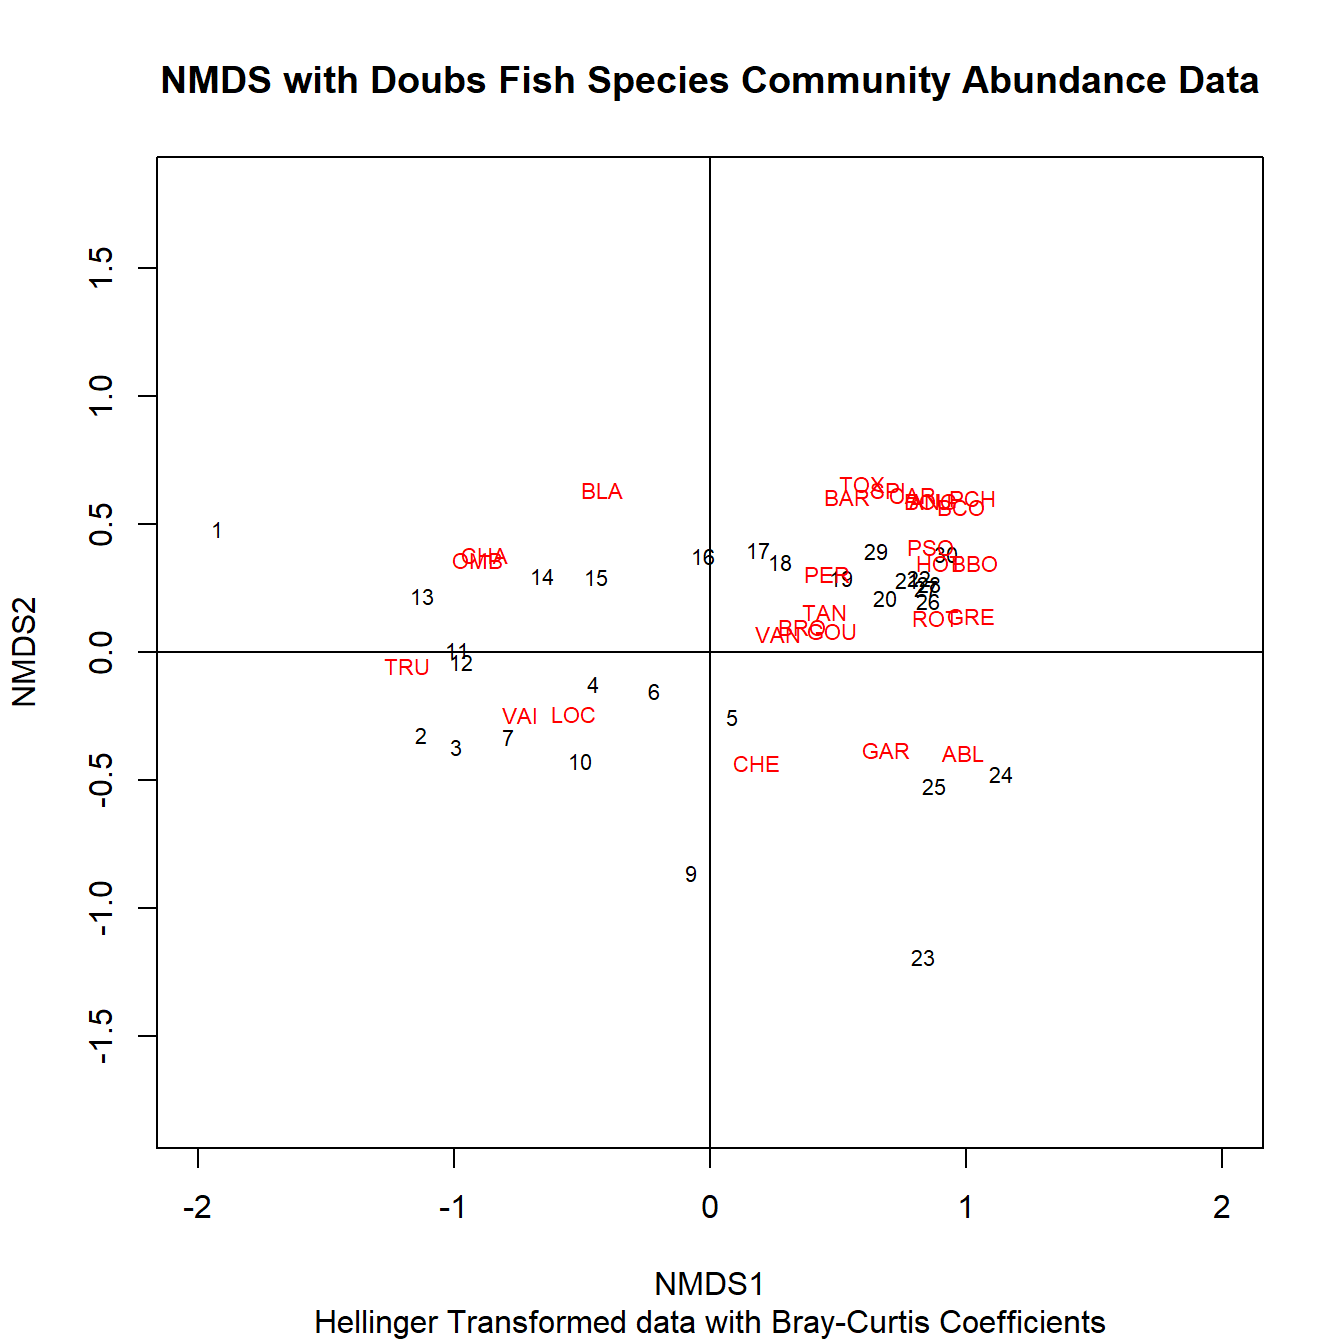
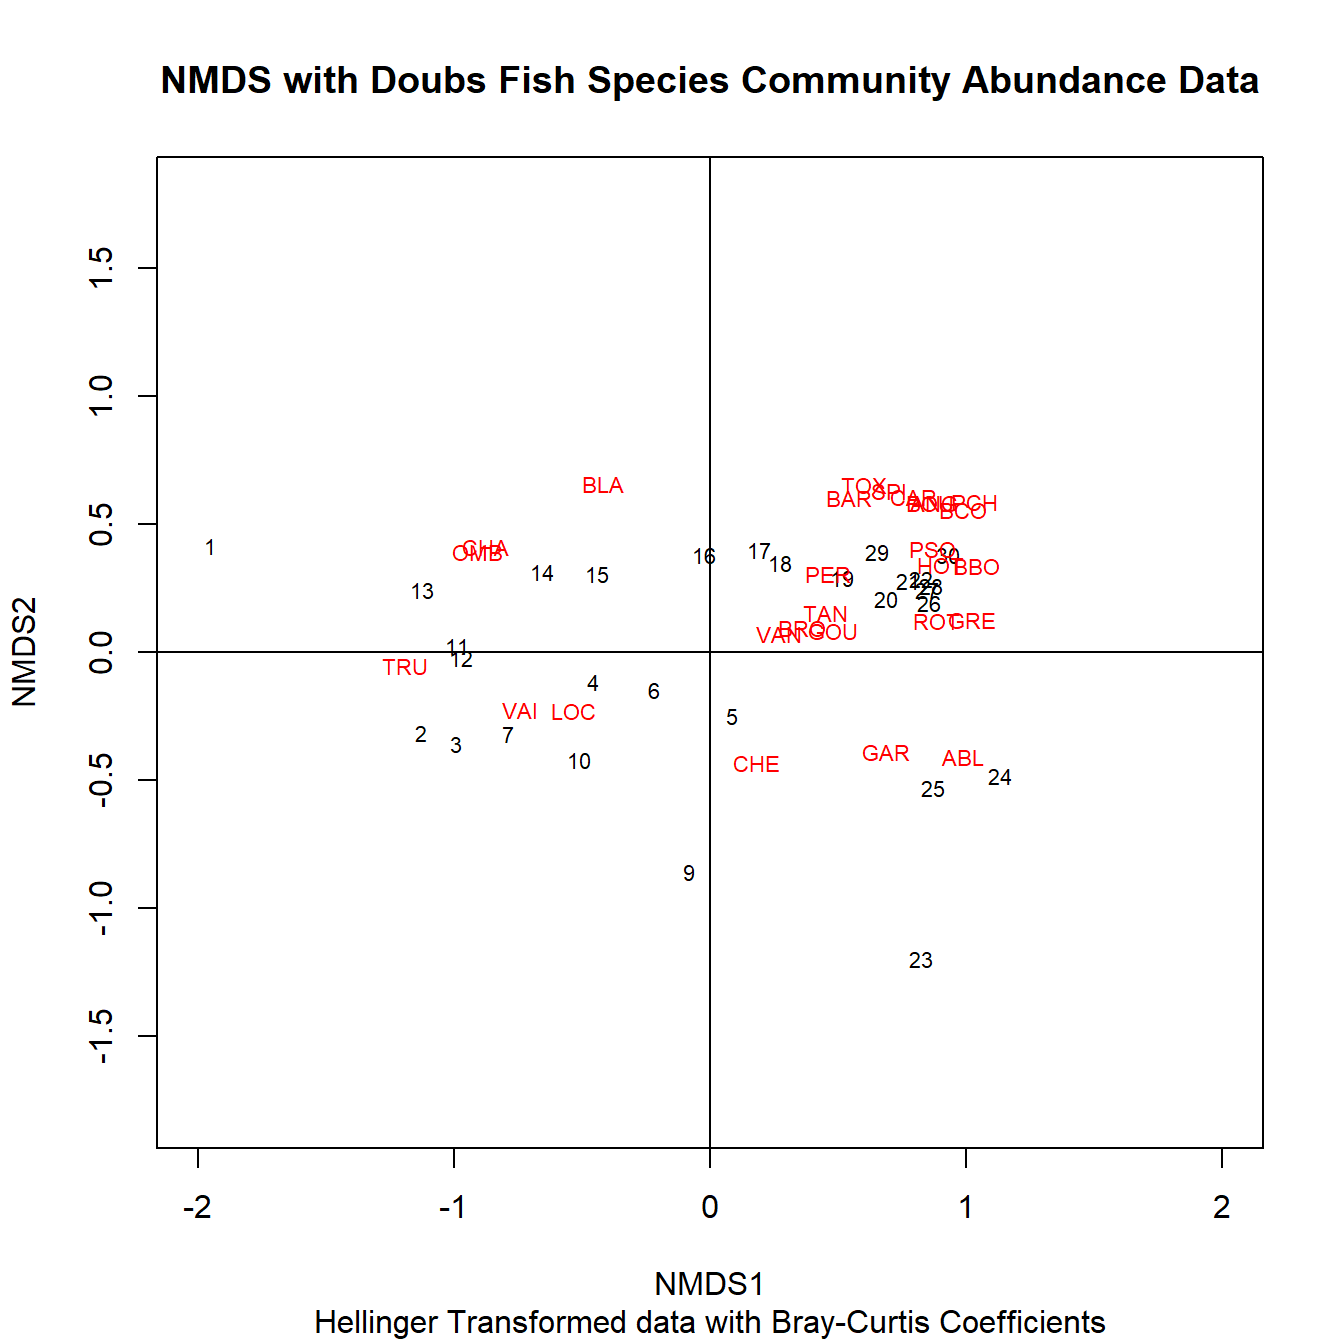
minor

diff --git a/Ordination2023.html b/Ordination2023.html
@@ -433,7 +433,7 @@ div.tocify {
       <a href="SpatialRegression.html">Spatial Regression (demo and lab)</a>
     </li>
     <li>
-      <a href="Ordination.html">Ordination</a>
+      <a href="Ordination2023.html">Ordination</a>
     </li>
   </ul>
 </li>
@@ -1452,41 +1452,35 @@ spe.nmds &lt;- vegan::metaMDS(spe.h,
                            autotransform = F # indicates that transformation has already been applied to the data
                            )</code></pre>
 <pre><code>## Run 0 stress 0.06746136 
-## Run 1 stress 0.1041401 
-## Run 2 stress 0.06742926 
+## Run 1 stress 0.1256267 
+## Run 2 stress 0.1067558 
+## Run 3 stress 0.1151198 
+## Run 4 stress 0.06747858 
+## ... Procrustes: rmse 0.002248574  max resid 0.01068354 
+## Run 5 stress 0.07528545 
+## Run 6 stress 0.1041398 
+## Run 7 stress 0.06742632 
 ## ... New best solution
-## ... Procrustes: rmse 0.004422755  max resid 0.02095743 
-## Run 3 stress 0.1074376 
-## Run 4 stress 0.1056776 
-## Run 5 stress 0.06742743 
-## ... New best solution
-## ... Procrustes: rmse 0.0005186462  max resid 0.002448037 
+## ... Procrustes: rmse 0.005223574  max resid 0.02475393 
+## Run 8 stress 0.108608 
+## Run 9 stress 0.06742876 
+## ... Procrustes: rmse 0.000636614  max resid 0.003014554 
 ## ... Similar to previous best
-## Run 6 stress 0.06744613 
-## ... Procrustes: rmse 0.003450095  max resid 0.0163486 
-## Run 7 stress 0.1016986 
-## Run 8 stress 0.1016352 
-## Run 9 stress 0.1140553 
-## Run 10 stress 0.06747387 
-## ... Procrustes: rmse 0.006769771  max resid 0.03210369 
-## Run 11 stress 0.1016998 
-## Run 12 stress 0.1024772 
-## Run 13 stress 0.07528545 
-## Run 14 stress 0.11512 
-## Run 15 stress 0.06742467 
-## ... New best solution
-## ... Procrustes: rmse 0.003618155  max resid 0.01714729 
-## Run 16 stress 0.0674245 
-## ... New best solution
-## ... Procrustes: rmse 3.127017e-05  max resid 6.845496e-05 
-## ... Similar to previous best
-## Run 17 stress 0.1016992 
-## Run 18 stress 0.0752855 
-## Run 19 stress 0.06742538 
-## ... Procrustes: rmse 0.0003165736  max resid 0.001500494 
-## ... Similar to previous best
-## Run 20 stress 0.1151199 
-## *** Best solution repeated 2 times</code></pre>
+## Run 10 stress 0.07528552 
+## Run 11 stress 0.0957706 
+## Run 12 stress 0.06744668 
+## ... Procrustes: rmse 0.00377196  max resid 0.01787238 
+## Run 13 stress 0.1096431 
+## Run 14 stress 0.07528553 
+## Run 15 stress 0.07528559 
+## Run 16 stress 0.1245882 
+## Run 17 stress 0.1041402 
+## Run 18 stress 0.06747131 
+## ... Procrustes: rmse 0.006623213  max resid 0.03139962 
+## Run 19 stress 0.09577104 
+## Run 20 stress 0.06746767 
+## ... Procrustes: rmse 0.006288775  max resid 0.02981288 
+## *** Best solution repeated 1 times</code></pre>
 <p>When we run an NMDS, objects are first positioned in a random
 starting condition in the requested number of dimensions (default is 2).
 It then iteratively moves those objects and then calculates the
@@ -1505,7 +1499,7 @@ the specified number of NMDS dimensions. &lt;0.1 is great, and &lt;0.05
 is excellent, except that is rare.</p>
 <pre class="r"><code># Stress score
 spe.nmds$stress # A stress score &lt;0.1. Great!</code></pre>
-<pre><code>## [1] 0.0674245</code></pre>
+<pre><code>## [1] 0.06742632</code></pre>
 <p>We can do a visual check of goodness-of-fit using a Shepard’s
 plot.</p>
 <pre class="r"><code># Shepard Plot

diff --git a/index.html b/index.html
@@ -432,7 +432,7 @@ div.tocify {
       <a href="SpatialRegression.html">Spatial Regression (demo and lab)</a>
     </li>
     <li>
-      <a href="Ordination.html">Ordination</a>
+      <a href="Ordination2023.html">Ordination</a>
     </li>
   </ul>
 </li>
